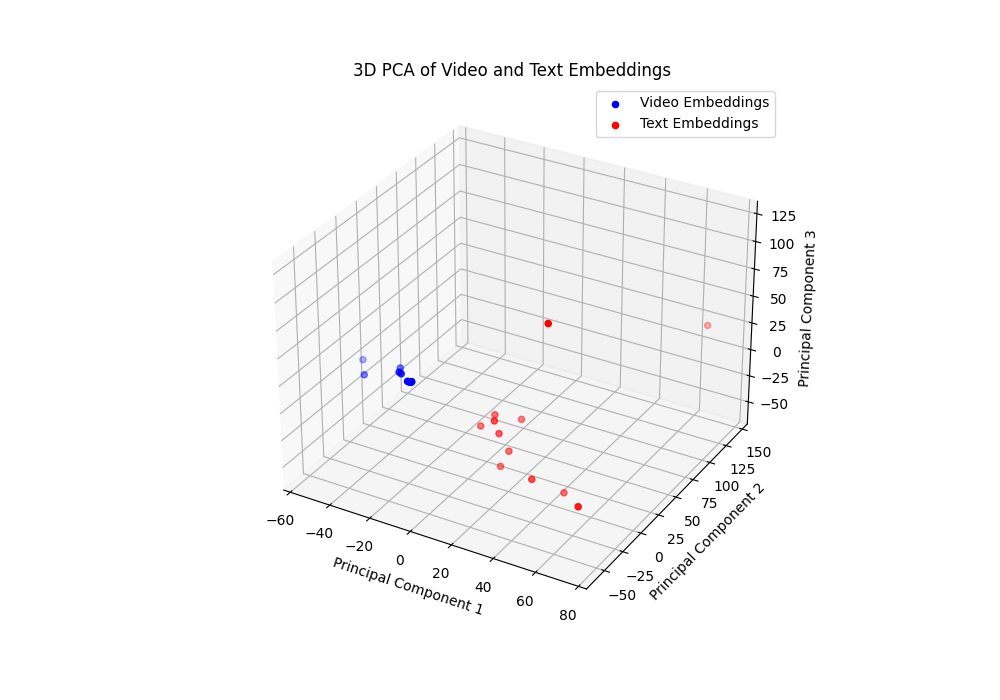
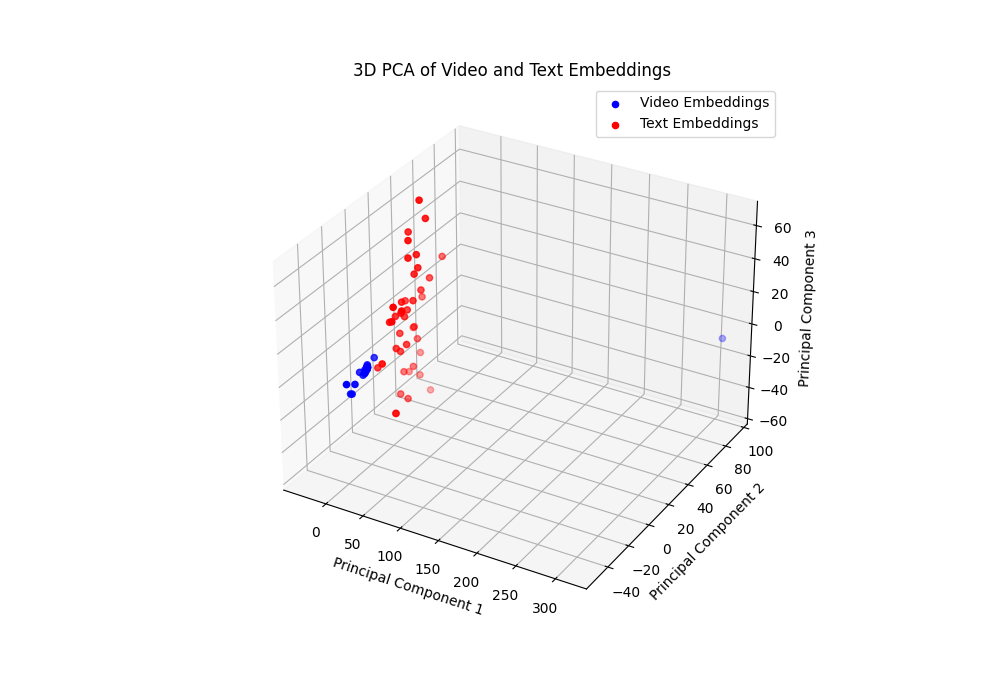
Comment changes

diff --git a/visualization/task1.py b/visualization/task1.py
@@ -154,7 +154,7 @@ def adjust_frames(frames, target_frame_count = 32):
 
     return adjusted_frames
 
-def Embedding(model, video_paths = None, text_label = None):
+def Embedding(model, video_paths = None):
     """
     Generates embeddings for video and text using a given model.
 
@@ -169,9 +169,6 @@ def Embedding(model, video_paths = None, text_label = None):
 
     batch_video = []
     batch_text = []
-    if text_label:
-        text_output = model.text_module([text_label])
-        text_embedding = text_output['text_embedding']
     if video_paths:
         for video_path in video_paths:
             #print(video_path)
@@ -246,15 +243,15 @@ def list_webm_files(folder_path):
 # test_frame = preprocess_human_demo(test_frame)
 # video = th.from_numpy(test_frame)
 # print(test_frame.shape)
-video_paths = list_webm_files('vidz4jesse')
+video_paths = list_webm_files('../20bn-something-something-v2')
 #print(video_paths)
 s3d = S3D('../s3d_dict.npy', 512)
 s3d.load_state_dict(th.load('../s3d_howto100m.pth'))
 s3d.eval()
 video_embeddings, text_embeddings = Embedding(s3d, video_paths)
-#print(video_embedding.shape, text_embedding.shape)
+#print(video_embeddings.shape, text_embeddings.shape)
 l2_distances = th.norm(text_embeddings - video_embeddings, p=2, dim=1)
-
+#print(l2_distances.shape)
 mean_distance = th.mean(l2_distances)
 std_distance = th.std(l2_distances)
 

diff --git a/visualization/download.py b/visualization/download.py
@@ -1,3 +1,3 @@
 import gdown
-url = "https://drive.google.com/drive/folders/1kpyNEu2Xz9cKHW2dY40N2I1McbVMi8U0?usp=sharing"
+url = "https://drive.google.com/drive/folders/1WXQr_Cg6ZODAWowLKfXq4HHQgzNtfPvt?usp=share_link"
 gdown.download_folder(url)
